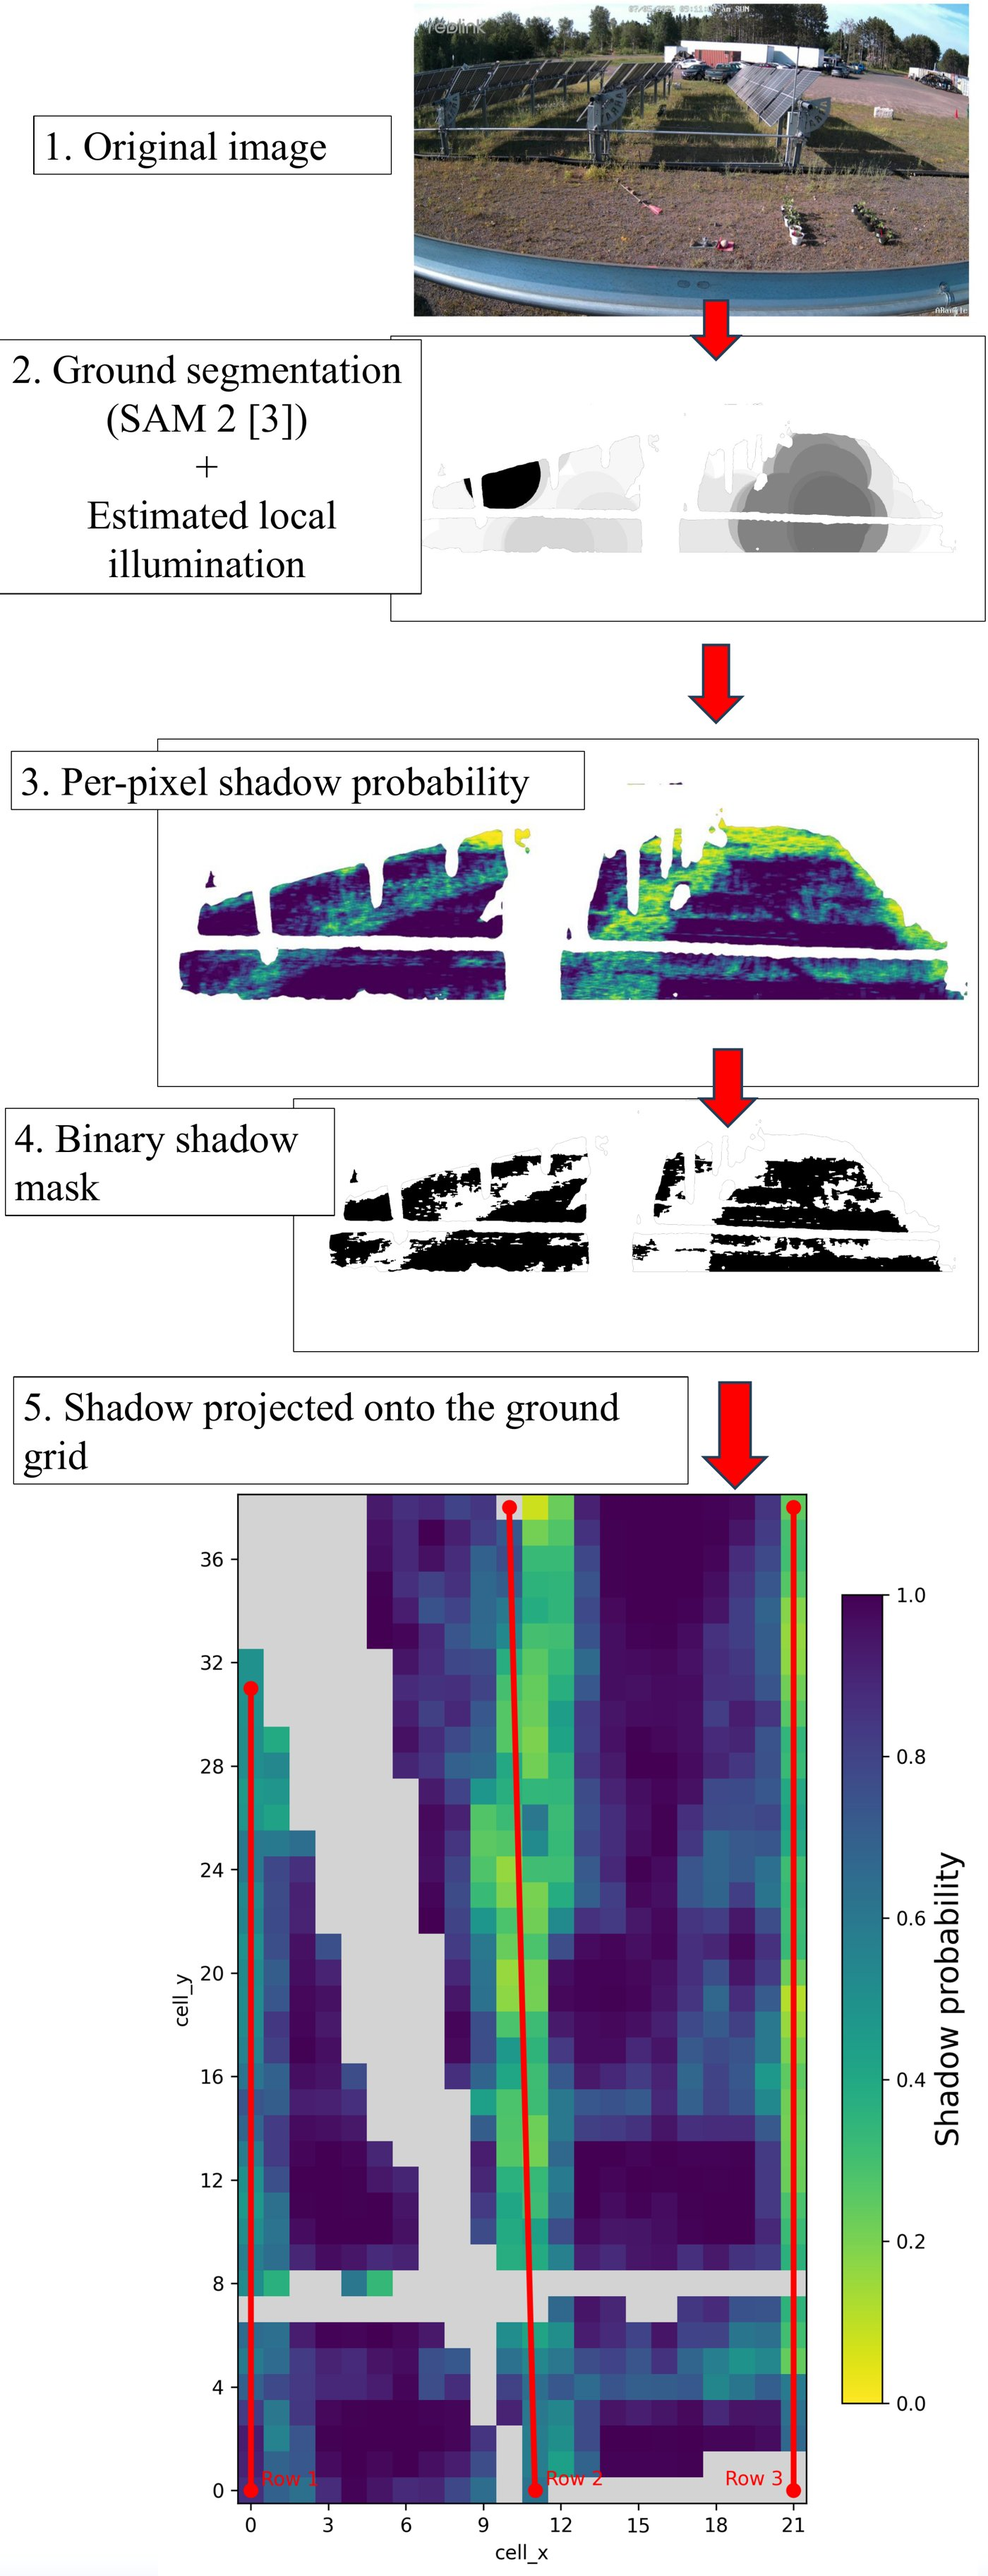
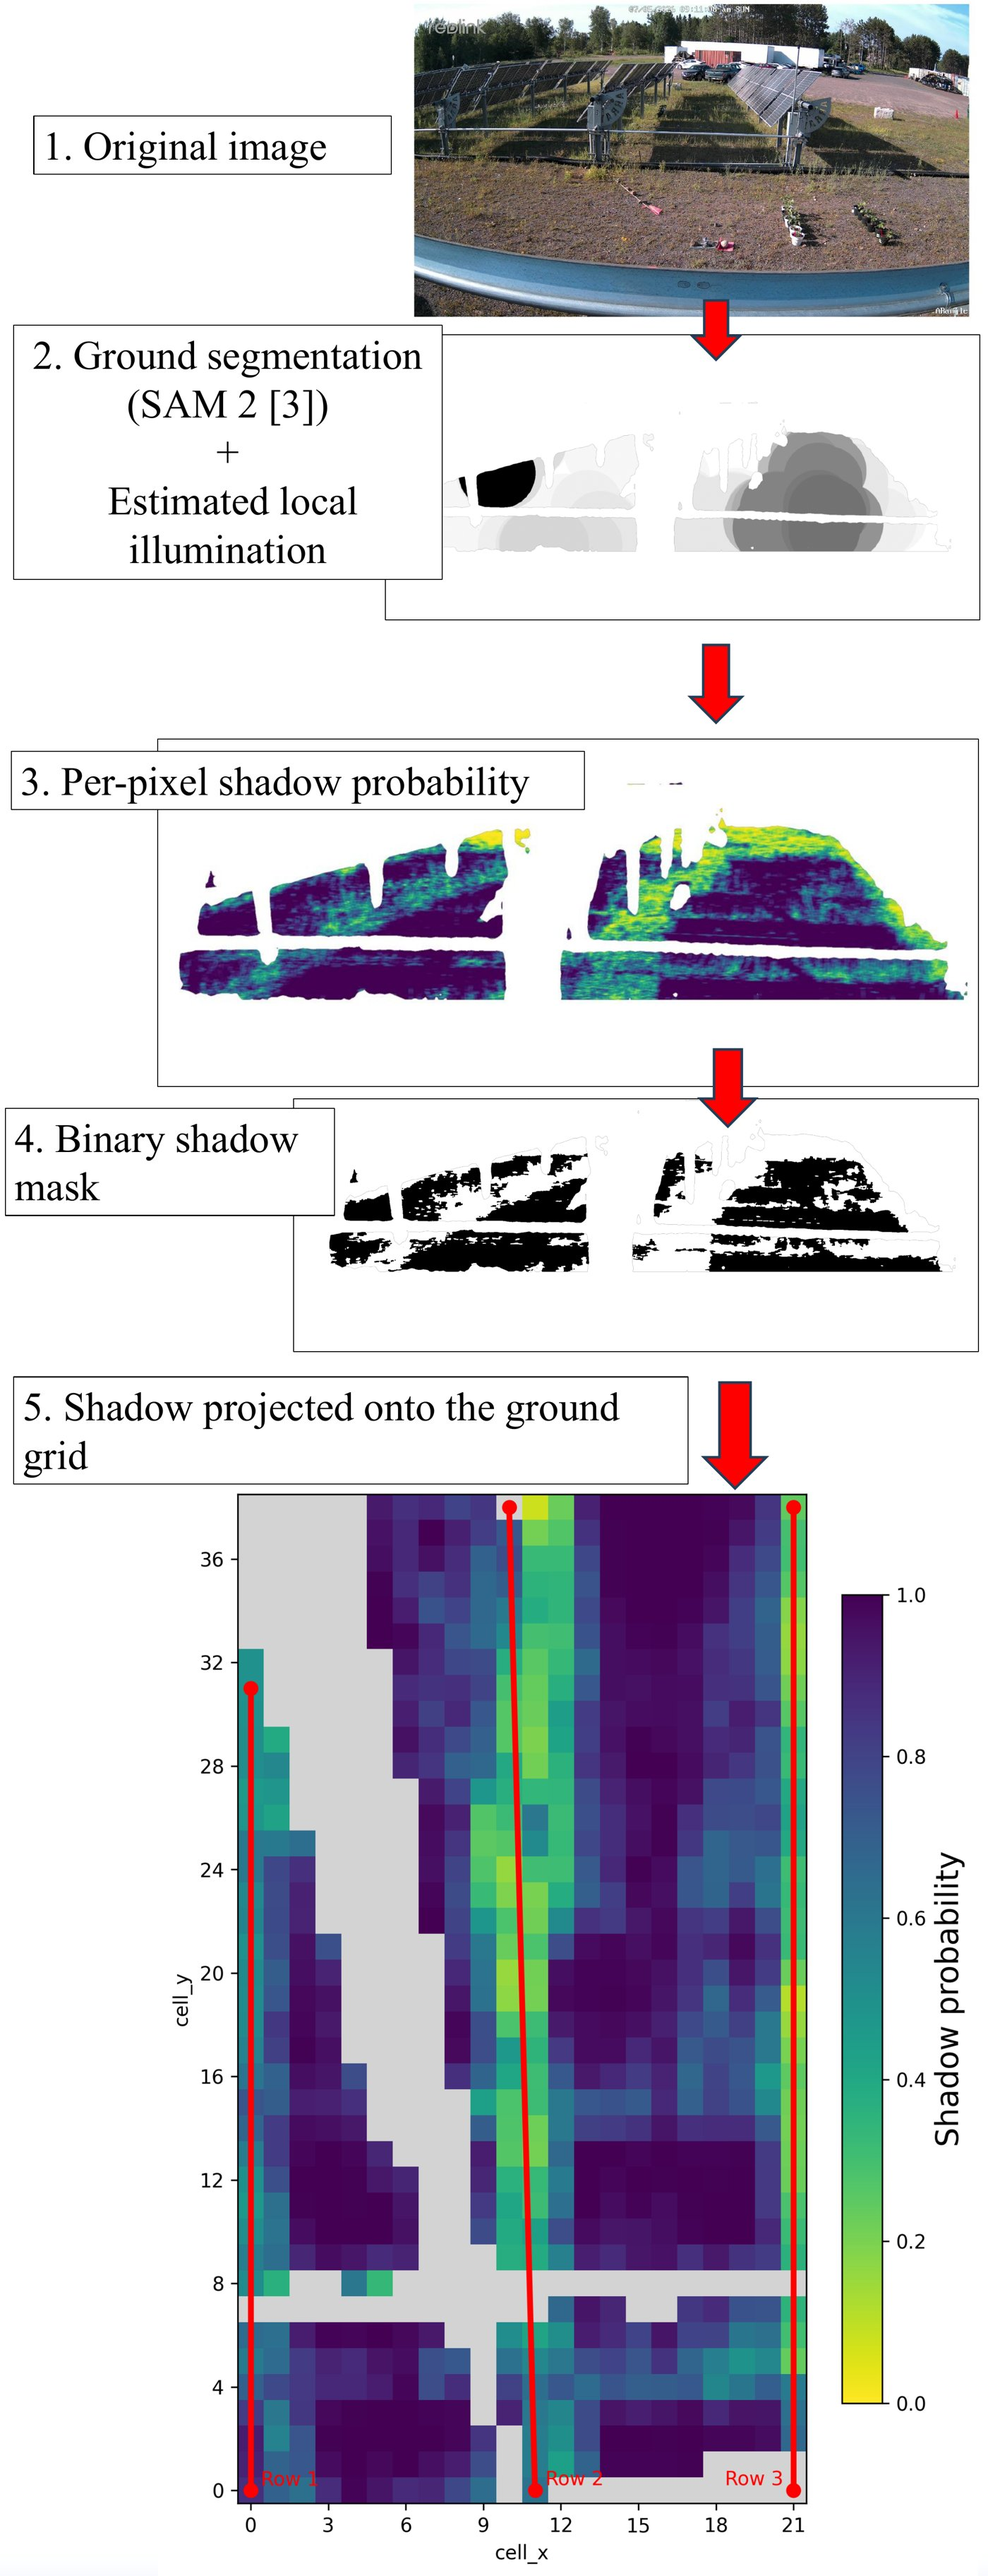
Update pipeline figure and results text from poster v2.1

diff --git a/README.md b/README.md
@@ -42,7 +42,7 @@ Two approaches were compared on 5 held-out, manually labeled images: a trained U
 
 ![Example comparison, early morning: green = true positive, red = false positive, blue = false negative](docs/images/method_comparison.jpg)
 
-- Both methods reach similar accuracy.
+- Both methods achieve similar detection accuracy, with slightly higher IoU and F1 for the probabilistic model.
 - The probabilistic model needs no training data or manual labeling.
 - U-Net++ estimates the total shaded area more accurately.
 - The probabilistic model was selected for full-scale processing (this repository). The U-Net++ baseline is not included here.
